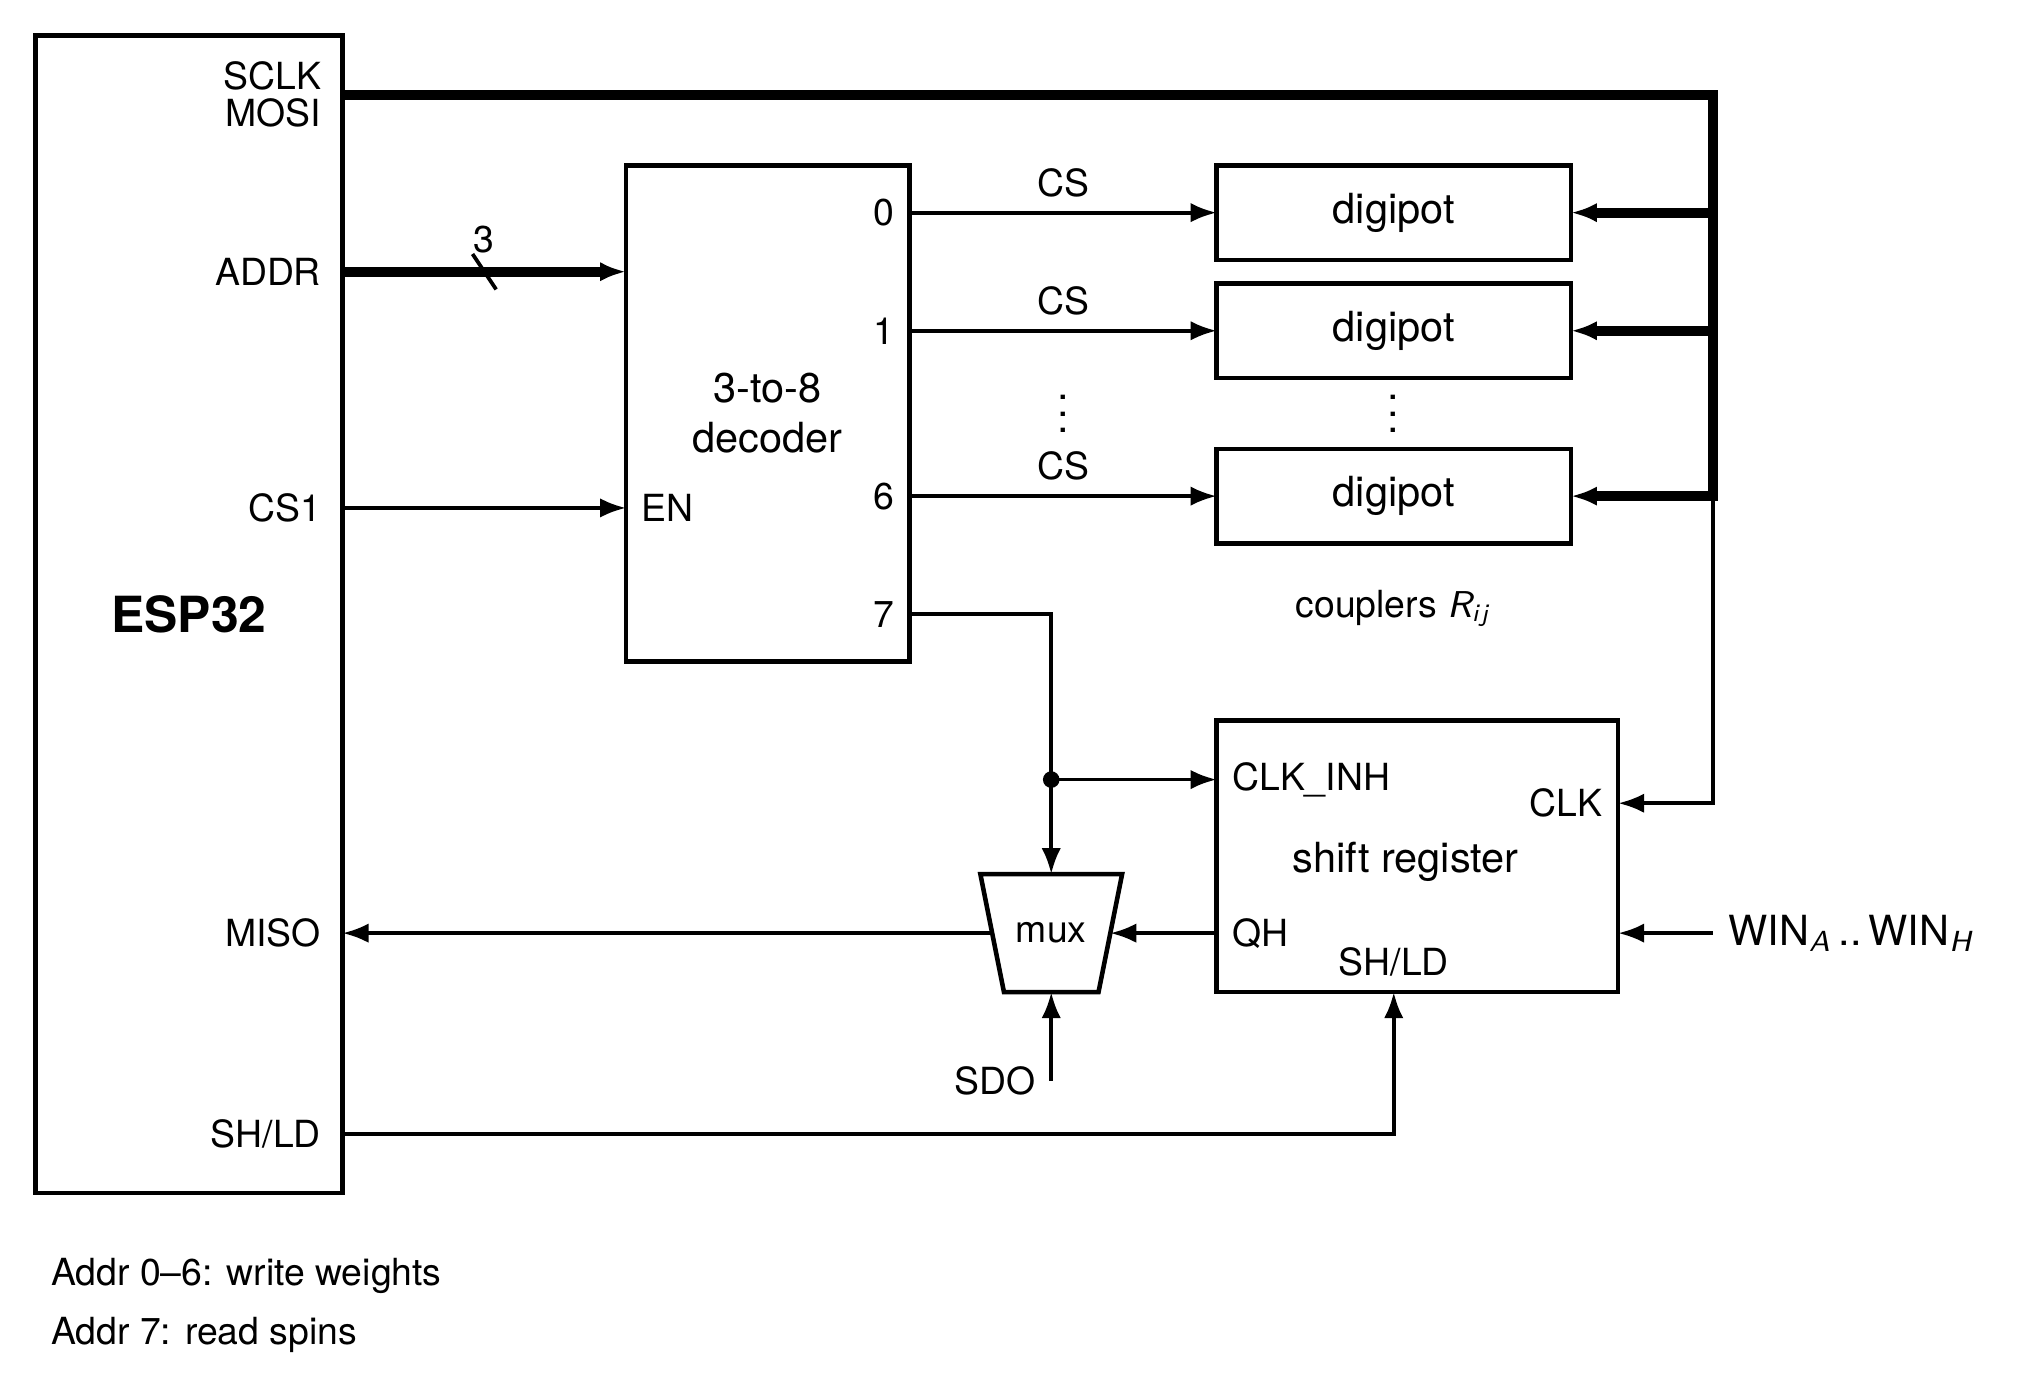
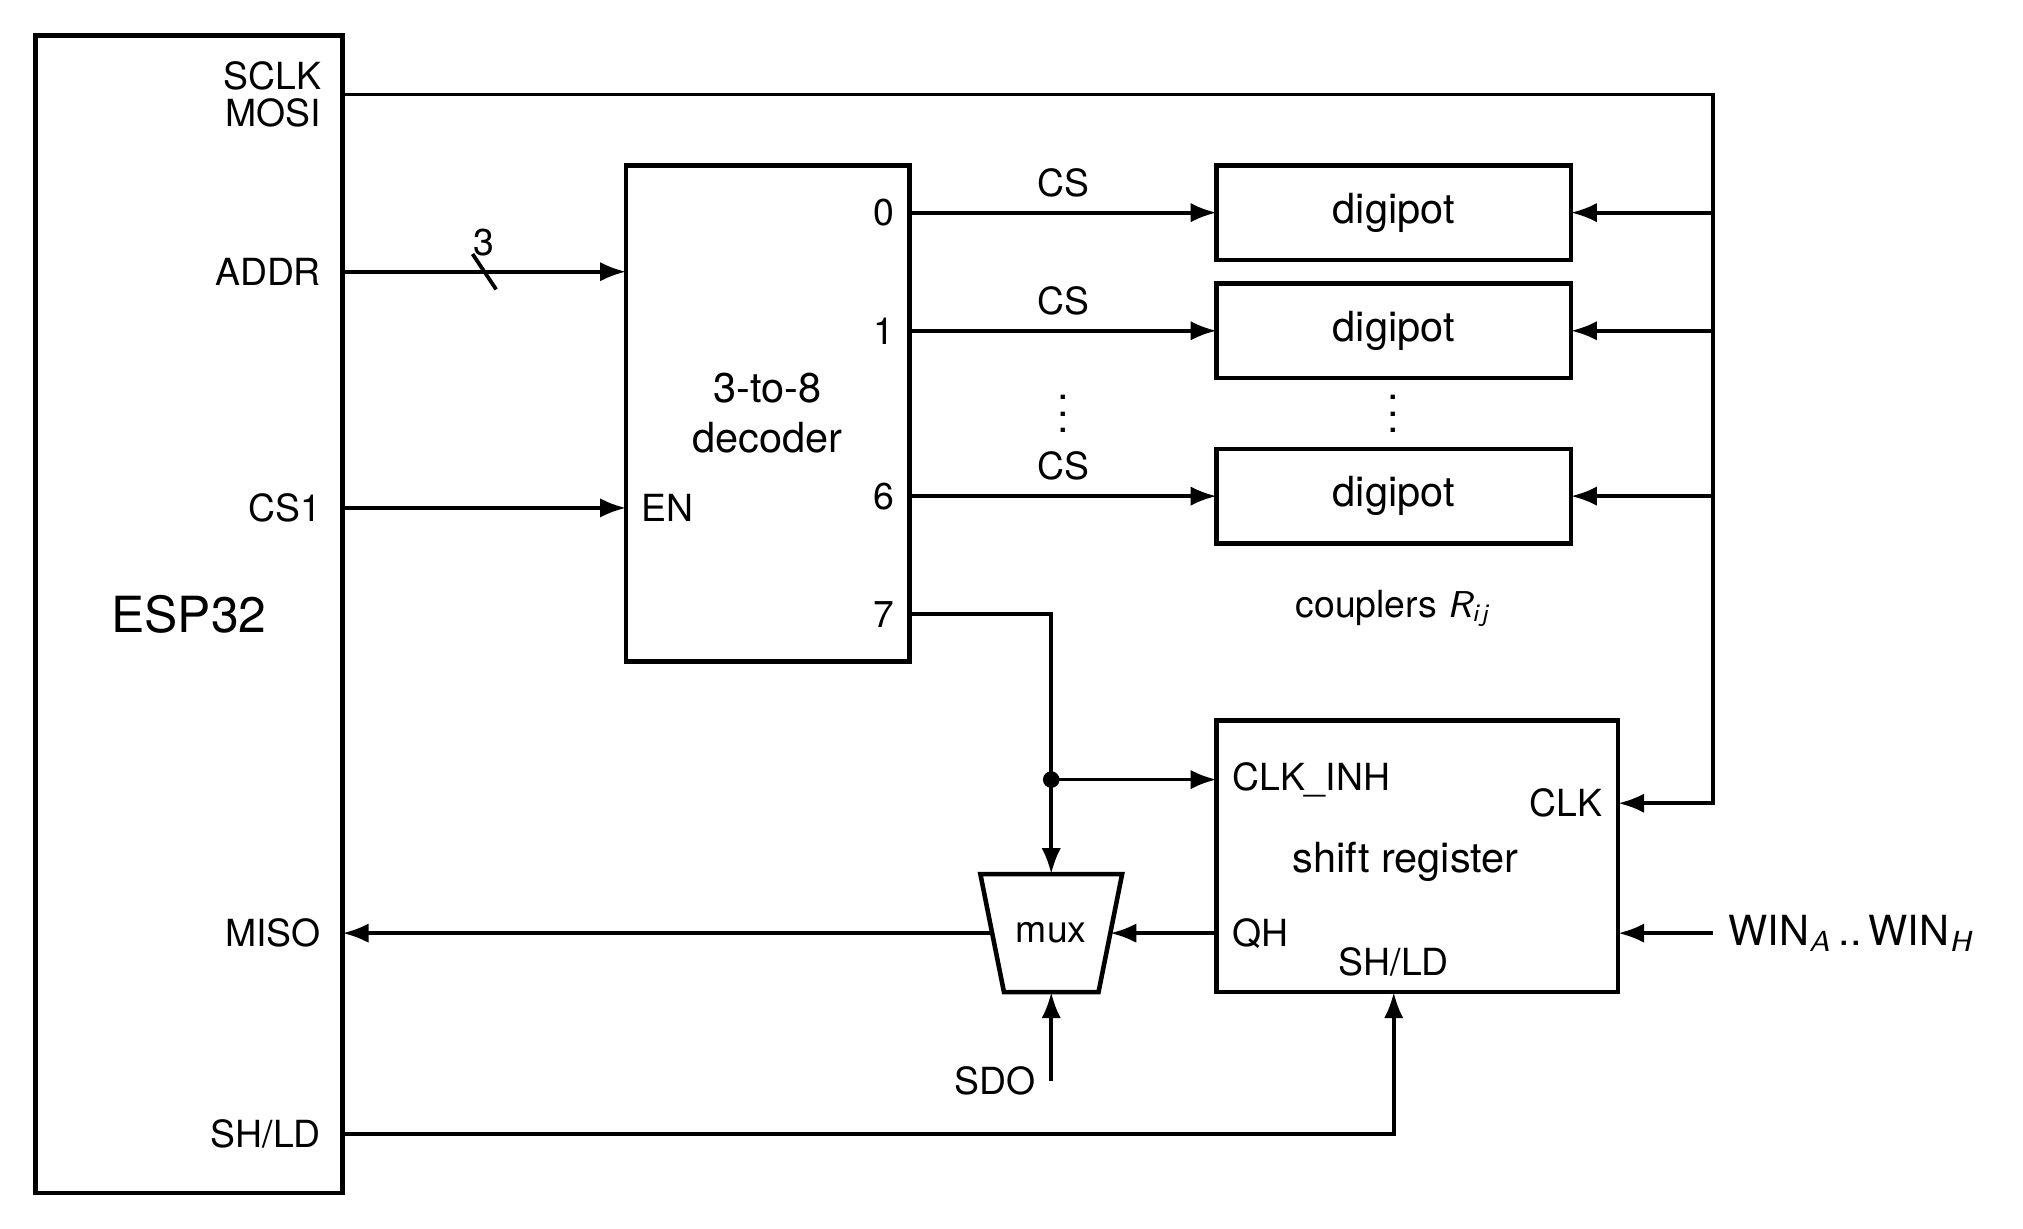
cleanup: readback errors, validate web result, remove vite cache, update READMEs

diff --git a/web/protocol/messages.ts b/web/protocol/messages.ts
@@ -20,6 +20,28 @@ export interface Result {
   corr: Record<string, number>;
 }
 
+const isObject = (x: unknown): x is Record<string, unknown> => typeof x === "object" && x !== null && !Array.isArray(x);
+const isSpin = (k: string) => (SPIN_LABELS as readonly string[]).includes(k);
+const isEdge = (k: string) => k.length === 2 && isSpin(k[0]) && isSpin(k[1]) && k[0] !== k[1];
+const isMap = (x: unknown, key: (k: string) => boolean, value: (v: unknown) => boolean) =>
+  isObject(x) && Object.entries(x).every(([k, v]) => key(k) && value(v));
+const isNumber = (v: unknown) => typeof v === "number" && Number.isFinite(v);
+const isCut = (x: unknown) => isObject(x) && isNumber(x.cut) && isMap(x.state, isSpin, (v) => v === "+" || v === "-");
+
+/** Runtime check that x has Result's shape; the server rejects anything else, so a publisher that
+ * drifts from this file (device.py) gets a 400 instead of breaking the page. */
+export function isResult(x: unknown): x is Result {
+  return (
+    isObject(x) &&
+    x.type === "result" &&
+    typeof x.name === "string" &&
+    isMap(x.problem, isEdge, isNumber) &&
+    isMap(x.corr, isSpin, (v) => isNumber(v) && Math.abs(v as number) <= 1) &&
+    isCut(x.found) &&
+    isCut(x.max)
+  );
+}
+
 /** A Result as the server relays it, stamped with when it arrived. */
 export interface Published extends Result {
   receivedMs: number;

diff --git a/web/worker/device-session.ts b/web/worker/device-session.ts
@@ -1,5 +1,5 @@
 import { DurableObject } from "cloudflare:workers";
-import type { Published, Result, Snapshot } from "../protocol/messages";
+import { isResult, type Published, type Snapshot } from "../protocol/messages";
 
 // Single instance holding the latest result and relaying new ones to all browsers.
 export class DeviceSession extends DurableObject<Env> {
@@ -21,14 +21,14 @@ export class DeviceSession extends DurableObject<Env> {
     }
 
     if (pathname === "/api/result") {
-      let result: Result;
+      let result: unknown;
       try {
         result = await request.json();
       } catch {
         return new Response("Invalid JSON", { status: 400 });
       }
-      if (result?.type !== "result" || typeof result.name !== "string") {
-        return new Response("Expected a result", { status: 400 });
+      if (!isResult(result)) {
+        return new Response("Expected a Result (protocol/messages.ts)", { status: 400 });
       }
       this.result = { ...result, receivedMs: Date.now() };
       await this.ctx.storage.put("result", this.result);

diff --git a/web/vite.config.ts b/web/vite.config.ts
@@ -4,8 +4,4 @@ import { cloudflare } from "@cloudflare/vite-plugin";
 
 export default defineConfig({
   plugins: [react(), cloudflare()],
-  server: {
-    // Reachable from the ESP32 over the LAN.
-    host: "0.0.0.0",
-  },
 });

diff --git a/hardware/schematic/system-overview.tex b/hardware/schematic/system-overview.tex
@@ -1,0 +1,50 @@
+% High-level system overview: laptop (Python API, hardware/io) publishes results to Cloudflare and talks
+% over USB serial to the ESP32 firmware (serial CLI over src/machine couplers/oscillators, on drivers/bus),
+% which drives the Ising machine board over SPI + GPIO. The scope (io/scope.py, SCPI over LAN) probes the
+% oscillators; the AWG drives SYNC.
+% Build: lualatex system-overview.tex && pdftoppm -png -r 300 -singlefile system-overview.pdf system-overview
+\documentclass[border=8pt]{standalone}
+\usepackage{tikz}
+\usetikzlibrary{arrows.meta, shapes.symbols}
+\usepackage{fontspec}
+\setmainfont{TeX Gyre Heros}
+
+\begin{document}
+\begin{tikzpicture}[
+    font=\large, line width=0.9pt, >={Latex[length=2.2mm]},
+    box/.style={draw, line width=1.1pt, align=center},
+    lbl/.style={font=\normalsize},
+  ]
+  % Cloudflare
+  \node[draw, line width=1.1pt, cloud, cloud puffs=11, aspect=2.4, inner sep=4pt] (cf) at (5.0,2.9) {Cloudflare};
+
+  % Laptop
+  \draw[box] (1.0,1.4) rectangle (9.0,-1.0);
+  \draw[box] (1.4,1.0) rectangle (8.6,0.0);
+  \node at (5.0,0.5) {Python serial client};
+  \node at (5.0,-0.5) {Laptop};
+  \draw[->] (5.0,1.4) -- node[lbl, right] {HTTPS} (cf.south);
+
+  % Scope & AWG
+  \node[box, minimum height=1.0cm, inner xsep=10pt] (scope) at (-3.0,0.2) {Scope \& AWG};
+  \draw[<->] (scope.east) -- node[lbl, above] {LAN (SCPI)} (1.0,0.2);
+  \draw[<->] (scope.south) |- node[lbl, pos=0.75, above] {probes, SYNC} (1.0,-8.4);
+
+  % ESP32
+  \draw[box] (1.0,-2.2) rectangle (9.0,-6.6);
+  \node at (5.0,-2.65) {ESP32};
+  \draw[box] (1.4,-3.1) rectangle (8.6,-4.2);
+  \node at (5.0,-3.65) {C++ serial CLI};
+  \draw[box] (1.4,-4.5) rectangle (8.6,-6.2);
+  \draw (1.4,-5.3) -- (8.6,-5.3) (5.0,-4.5) -- (5.0,-5.3);
+  \node[font=\large\ttfamily, anchor=base] at (3.2,-5.02) {couplers.h};
+  \node[font=\large\ttfamily, anchor=base] at (6.8,-5.02) {oscillators.h};
+  \node[font=\large\ttfamily] at (5.0,-5.75) {bus.h};
+  \draw[<->] (5.0,-1.0) -- node[lbl, right] {USB serial} (5.0,-2.2);
+
+  % Ising machine
+  \draw[box] (1.0,-7.8) rectangle (9.0,-9.0);
+  \node at (5.0,-8.4) {Ising Machine};
+  \draw[<->] (5.0,-6.6) -- node[lbl, right] {SPI + GPIO} (5.0,-7.8);
+\end{tikzpicture}
+\end{document}

diff --git a/hardware/schematic/spi-bus.tex b/hardware/schematic/spi-bus.tex
@@ -18,11 +18,11 @@
     font=\normalsize, line width=0.9pt, >={Latex[length=2.2mm]},
     chip/.style={draw, line width=1.1pt, fill=white, align=center},
     pin/.style={font=\small},
-    bus/.style={line width=2.4pt},
+    bus/.style={},
   ]
   % ESP32
   \draw[chip] (0,0.5) rectangle (2.6,-9.3);
-  \node[font=\large\bfseries] at (1.3,-4.4) {ESP32};
+  \node[font=\large] at (1.3,-4.4) {ESP32};
   \foreach \y/\t in {0/SCLK\\[-2pt]MOSI, -1.5/ADDR, -3.5/CS1, -7.1/MISO, -8.8/{SH/LD}}
     \node[pin, anchor=east, align=right] at (2.55,\y) {\t};
 
@@ -69,8 +69,5 @@
   \draw[->] (8.6,-8.35) node[pin, left] {SDO} -- (8.6,-7.6);
   \draw[->] (8.1,-7.1) -- (2.6,-7.1);
 
-  % What each address does
-  \node[anchor=west, font=\small] at (0,-10.0) {Addr 0--6: write weights};
-  \node[anchor=west, font=\small] at (0,-10.5) {Addr 7: read spins};
 \end{tikzpicture}
 \end{document}

diff --git a/firmware/isingmachine/src/board.h b/firmware/isingmachine/src/board.h
@@ -1,5 +1,5 @@
 // Board definitions: Ising machine main board + Adafruit ESP32 Feather V2.
-// Schematics: hardware/coupler-schematic.PDF, hardware/oscillator-schematic.PDF
+// Schematics: hardware/schematic/coupler-schematic.PDF, hardware/schematic/oscillator-schematic.PDF
 #pragma once
 #include <stdint.h>
 
@@ -38,7 +38,7 @@ constexpr uint8_t NUM_COUPLERS = 28;
 constexpr uint16_t NUM_STATES = 256;
 constexpr char SPIN_LABEL[NUM_SPINS + 1] = "ABCDEFGH";
 
-// Coupler wiring: digipot channel -> spin pair. Derived from the netlist (firmware/README.md §1.4);
+// Coupler wiring: digipot channel -> spin pair. Derived from the coupler-board netlist;
 // verify on the bench. Each channel is a W-B rheostat joining an _L node to an _R node, so all
 // couplings share one sign and only the magnitude is programmable.
 struct SpinPair {

diff --git a/firmware/isingmachine/src/tests/measureCouplers.cpp b/firmware/isingmachine/src/tests/measureCouplers.cpp
@@ -4,6 +4,7 @@
 #include "../board.h"
 #include "../drivers/mcp4351.h"
 #include "../machine/couplers.h"
+#include "../utilities.h"
 #include "tests.h"
 
 namespace tests {
@@ -83,7 +84,7 @@ float solveNodeResistance(uint8_t x, float r_ohms) {
 // L and R oscillator header pin (oscillator board unplugged, coupler board powered).
 void measureCouplers(int16_t code) {
   Serial.println("=== Begin measureCouplers ===");
-  couplers::writeCode(code);
+  utilities::verifyWrite(couplers::writeCode(code));
 
   const float r = mcp4351::R_W_OHMS + code * mcp4351::R_AB_OHMS / mcp4351::CODE_MAX;
   Serial.printf("  code %d = nominal %.0f ohms per coupler\n", code, r);

diff --git a/firmware/isingmachine/src/utilities.h b/firmware/isingmachine/src/utilities.h
@@ -32,6 +32,10 @@ bool createBinaryGraph(const char *text, couplers::BinaryGraph &graph);
 // Prints an error and returns false if text isn't one.
 bool createWeightedGraph(const char *text, couplers::WeightedGraph graph);
 
+// True if a coupler write read back correctly (failed = the digipot bitmask couplers:: returns);
+// otherwise prints an error naming the digipots that didn't match.
+bool verifyWrite(uint8_t failed);
+
 // Prints graph's edges with their codes, e.g. "AB:0,BC:128", or "none".
 void printGraph(const couplers::WeightedGraph graph);
 

diff --git a/firmware/isingmachine/src/utilities.cpp b/firmware/isingmachine/src/utilities.cpp
@@ -57,6 +57,16 @@ bool verifyShots(long shots) {
   return false;
 }
 
+bool verifyWrite(uint8_t failed) {
+  if (!failed) return true;
+  Serial.print("Error: readback mismatch on");
+  for (uint8_t pot = 0; pot < board::NUM_DIGIPOTS; pot++) {
+    if (failed >> pot & 1) Serial.printf(" %s", board::DIGIPOT_LABEL[pot]);
+  }
+  Serial.println();
+  return false;
+}
+
 bool createBinaryGraph(const char *text, couplers::BinaryGraph &graph) {
   graph = 0;
   for (const char *e = text;; e += 3) {

diff --git a/README.md b/README.md
@@ -20,7 +20,7 @@ machine.publish("ring4b", problem, r)           # POST result to isingmachine.ap
 machine.close()
 ```
 
-[`run_maxcut.py`](hardware/io/run_maxcut.py) runs preset problems (`ring4b`, `ring8b`/`ring8w`, `cal_ring8b`/`cal_ring8w`, `cube8b`/`cube8w`, `cal_cube8b`/`cal_cube8w`, `bipart8b`/`bipart8w`, `cal_bipart8b`/`cal_bipart8w`, `full8b`/`full8w`):
+[`run_maxcut.py`](hardware/io/run_maxcut.py) runs preset problems (`ring4b`, `ring8b`/`ring8w`, `cal_ring8b`/`cal_ring8w`, `cube8b`/`cube8w`, `cal_cube8b`/`cal_cube8w`, `bipart8b`/`bipart8w`, `cal_bipart8b`/`cal_bipart8w`, `cubic8b`/`cubic8w` (random, `--seed`), `dense8b`/`dense8w`, `empty`):
 ```
 python3 hardware/io/run_maxcut.py cal_ring8b bipart8w --publish
 ```

diff --git a/firmware/README.md b/firmware/README.md
@@ -48,4 +48,4 @@ firmware/isingmachine/
     └── tests/            # serial tests
 ```
 
-Drivers never print, and only `bus` touches the SPI pins.
+Drivers never print, and only `bus` touches the SPI pins. Coupler writes are read back; a mismatch prints `Error: readback mismatch on U17 …`, which `device.py` raises as an exception.
